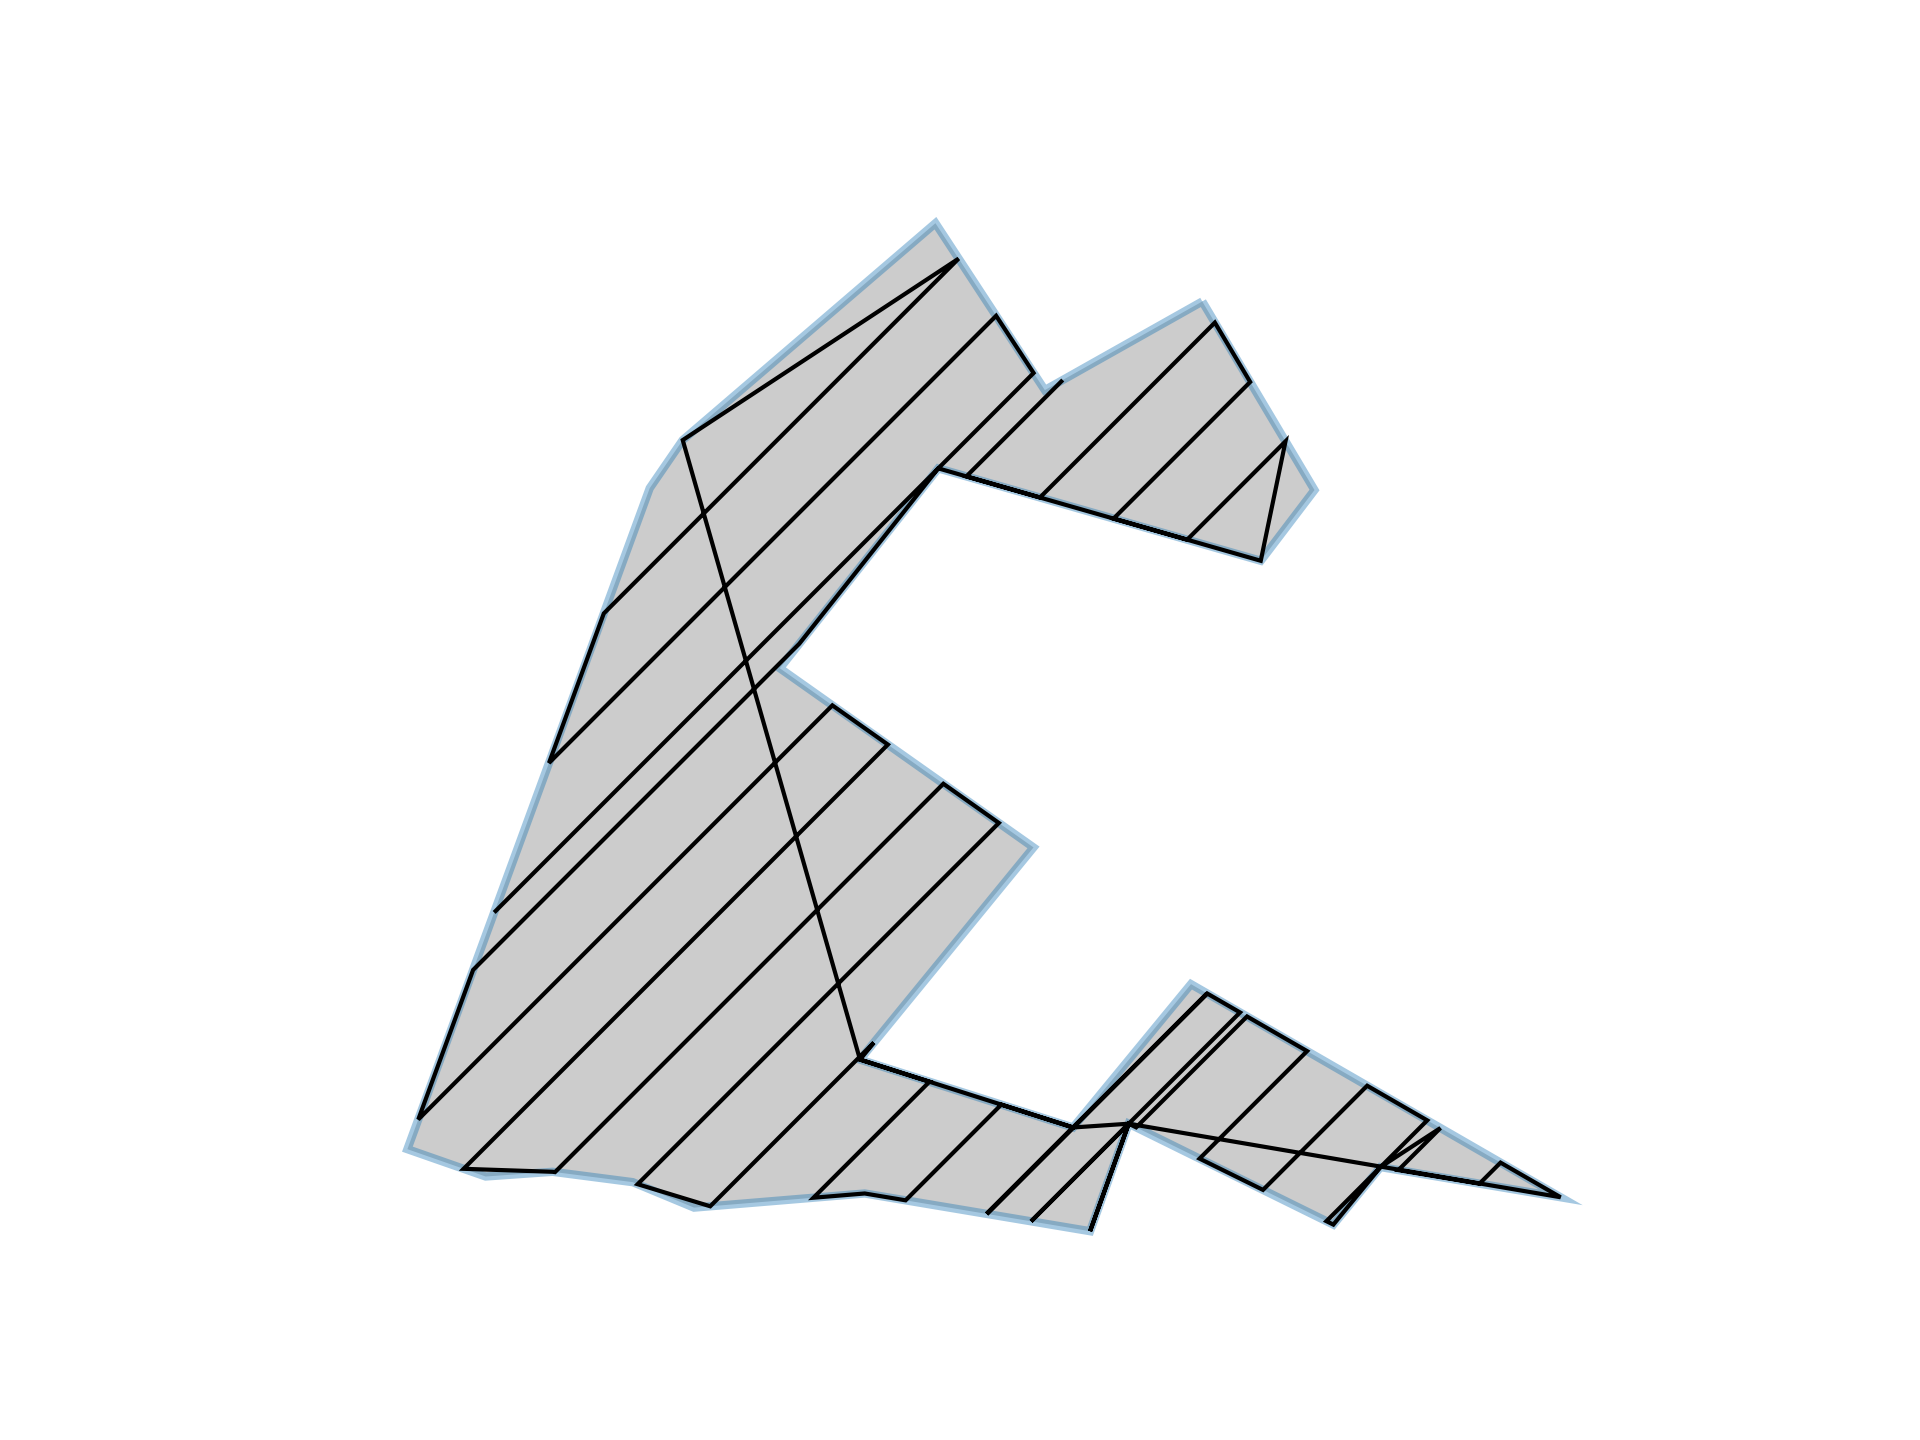
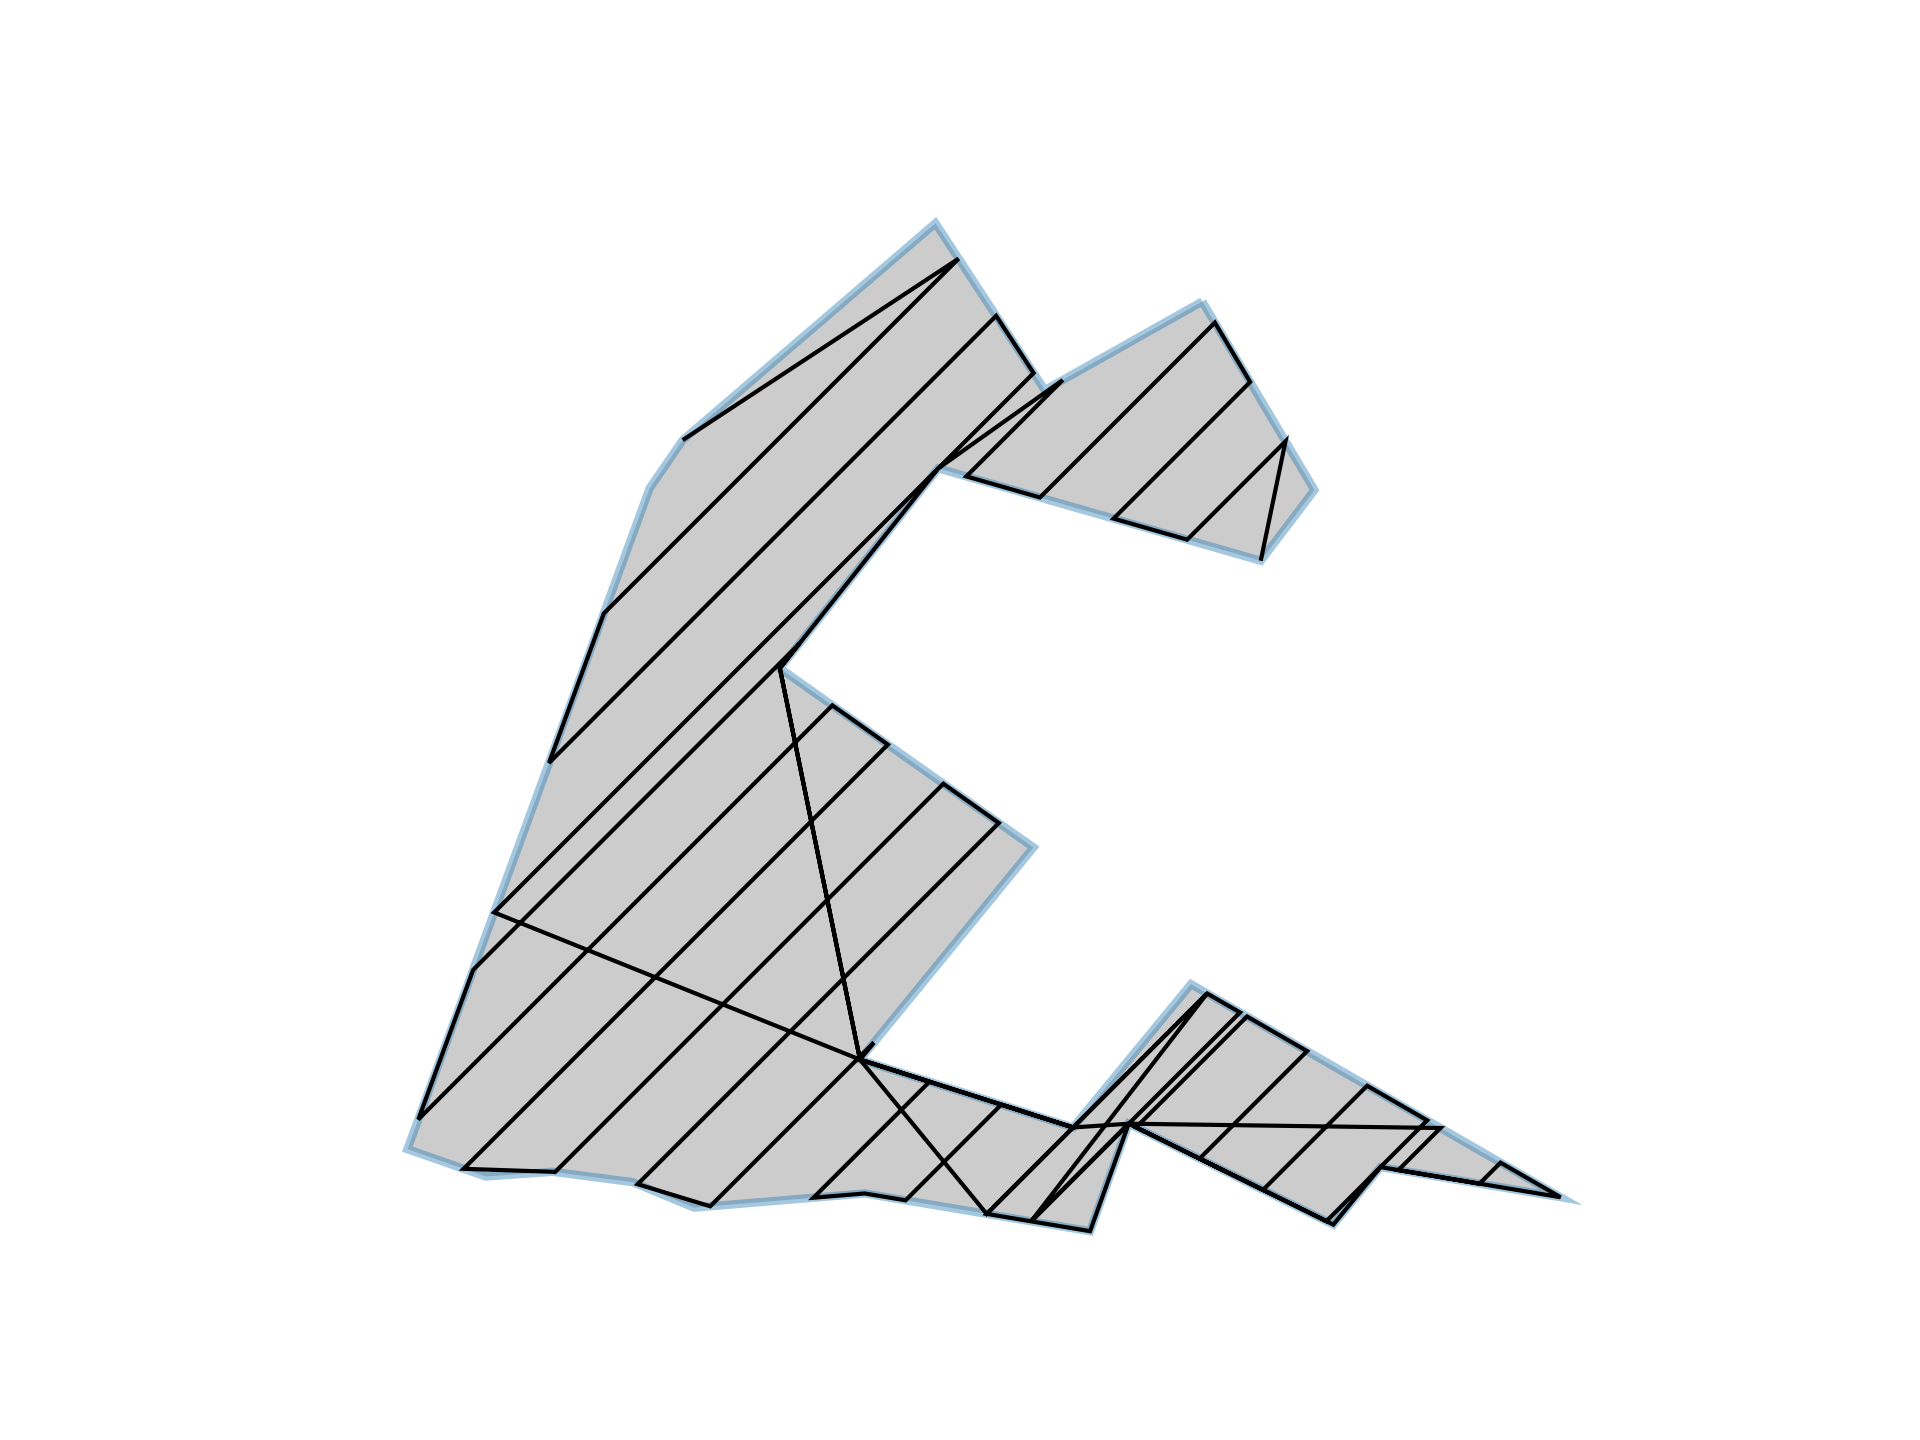
枚举方向试用版

diff --git a/trajgenpy/Geometries.py b/trajgenpy/Geometries.py
@@ -142,16 +142,30 @@ class GeoMultiTrajectory(GeoData):
             row = []
             for j in range(len(geoms)):
                 if i == j:
-                    row.append(0)
+                    row.append([0, 0, 0, 0])  # 四种距离，均为0
                 else:
-                    point1 = list(geoms[i].coords)[-1]  # Last point of geom[i]
-                    point2 = list(geoms[j].coords)[0]    # First point of geom[j]
-                    path = self.connect(polygon, point1, point2)
-                    if len(path) < 2:
-                        row.append(0)
-                    else:
-                        distance = shapely.geometry.LineString(path).length
-                        row.append(distance)
+                    # 计算四种距离
+                    distances = []
+                    for var1 in [0, 1]:  # 轨迹1的方向
+                        for var2 in [0, 1]:  # 轨迹2的方向
+                            if var1 == 0:
+                                path1 = list(geoms[i].coords)
+                            else:
+                                path1 = list(reversed(geoms[i].coords))
+
+                            if var2 == 0:
+                                path2 = list(geoms[j].coords)
+                            else:
+                                path2 = list(reversed(geoms[j].coords))
+
+                            # 连接路径并计算距离
+                            path = self.connect(polygon, path1[-1], path2[0])
+                            if len(path) < 2:
+                                distance = 0
+                            else:
+                                distance = shapely.geometry.LineString(path).length
+                            distances.append(distance)
+                    row.append(distances)
             distance_matrix.append(row)
         return distance_matrix
 
@@ -160,8 +174,14 @@ class GeoMultiTrajectory(GeoData):
         manager = pywrapcp.RoutingIndexManager(len(distance_matrix), 1, 0)
         routing = pywrapcp.RoutingModel(manager)
 
+        var_indices = []
+        for i in range(len(geoms)):
+            var_indices.append(routing.RegisterUnaryTransitCallback(lambda index, i=i: 0 if index == i else 1))
+
         def distance_callback(from_index, to_index):
-            return distance_matrix[manager.IndexToNode(from_index)][manager.IndexToNode(to_index)]
+            from_var_value = var_indices[manager.IndexToNode(from_index)]
+            to_var_value = var_indices[manager.IndexToNode(to_index)]
+            return distance_matrix[manager.IndexToNode(from_index)][manager.IndexToNode(to_index)][from_var_value * 2 + to_var_value]
 
         transit_callback_index = routing.RegisterTransitCallback(distance_callback)
         routing.SetArcCostEvaluatorOfAllVehicles(transit_callback_index)
@@ -176,21 +196,27 @@ class GeoMultiTrajectory(GeoData):
             index = routing.Start(0)
             while not routing.IsEnd(index):
                 current_geom = geoms[manager.IndexToNode(index)]
-                traj_list.extend(list(current_geom.coords))
-        
+                coords = list(current_geom.coords)
+                var_value = var_indices[manager.IndexToNode(index)]
+                if var_value:
+                    coords = coords[::-1]
+                traj_list.extend(coords)
+
                 next_index = solution.Value(routing.NextVar(index))
                 if not routing.IsEnd(next_index):
                     next_geom = geoms[manager.IndexToNode(next_index)]
-                    point1 = list(current_geom.coords)[-1]  # Last point of current geometry
-                    point2 = list(next_geom.coords)[0]      # First point of next geometry
-            
-                    # Insert points from the connect function
+                    next_coords = list(next_geom.coords)
+                    next_var_value = var_indices[manager.IndexToNode(next_index)]
+                    if next_var_value:
+                        next_coords = next_coords[::-1]
+
+                    point1 = coords[-1]  # Last point of current geometry
+                    point2 = next_coords[0]  # First point of next geometry
                     connecting_points = self.connect(polygon, point1, point2)
-                    traj_list.extend(connecting_points)  # Add connecting points
-        
+                    traj_list.extend(connecting_points)
+
                 index = next_index
 
-            # Create the final LineString from the trajectory list
             return shapely.geometry.LineString(traj_list)
         else:
             return None
